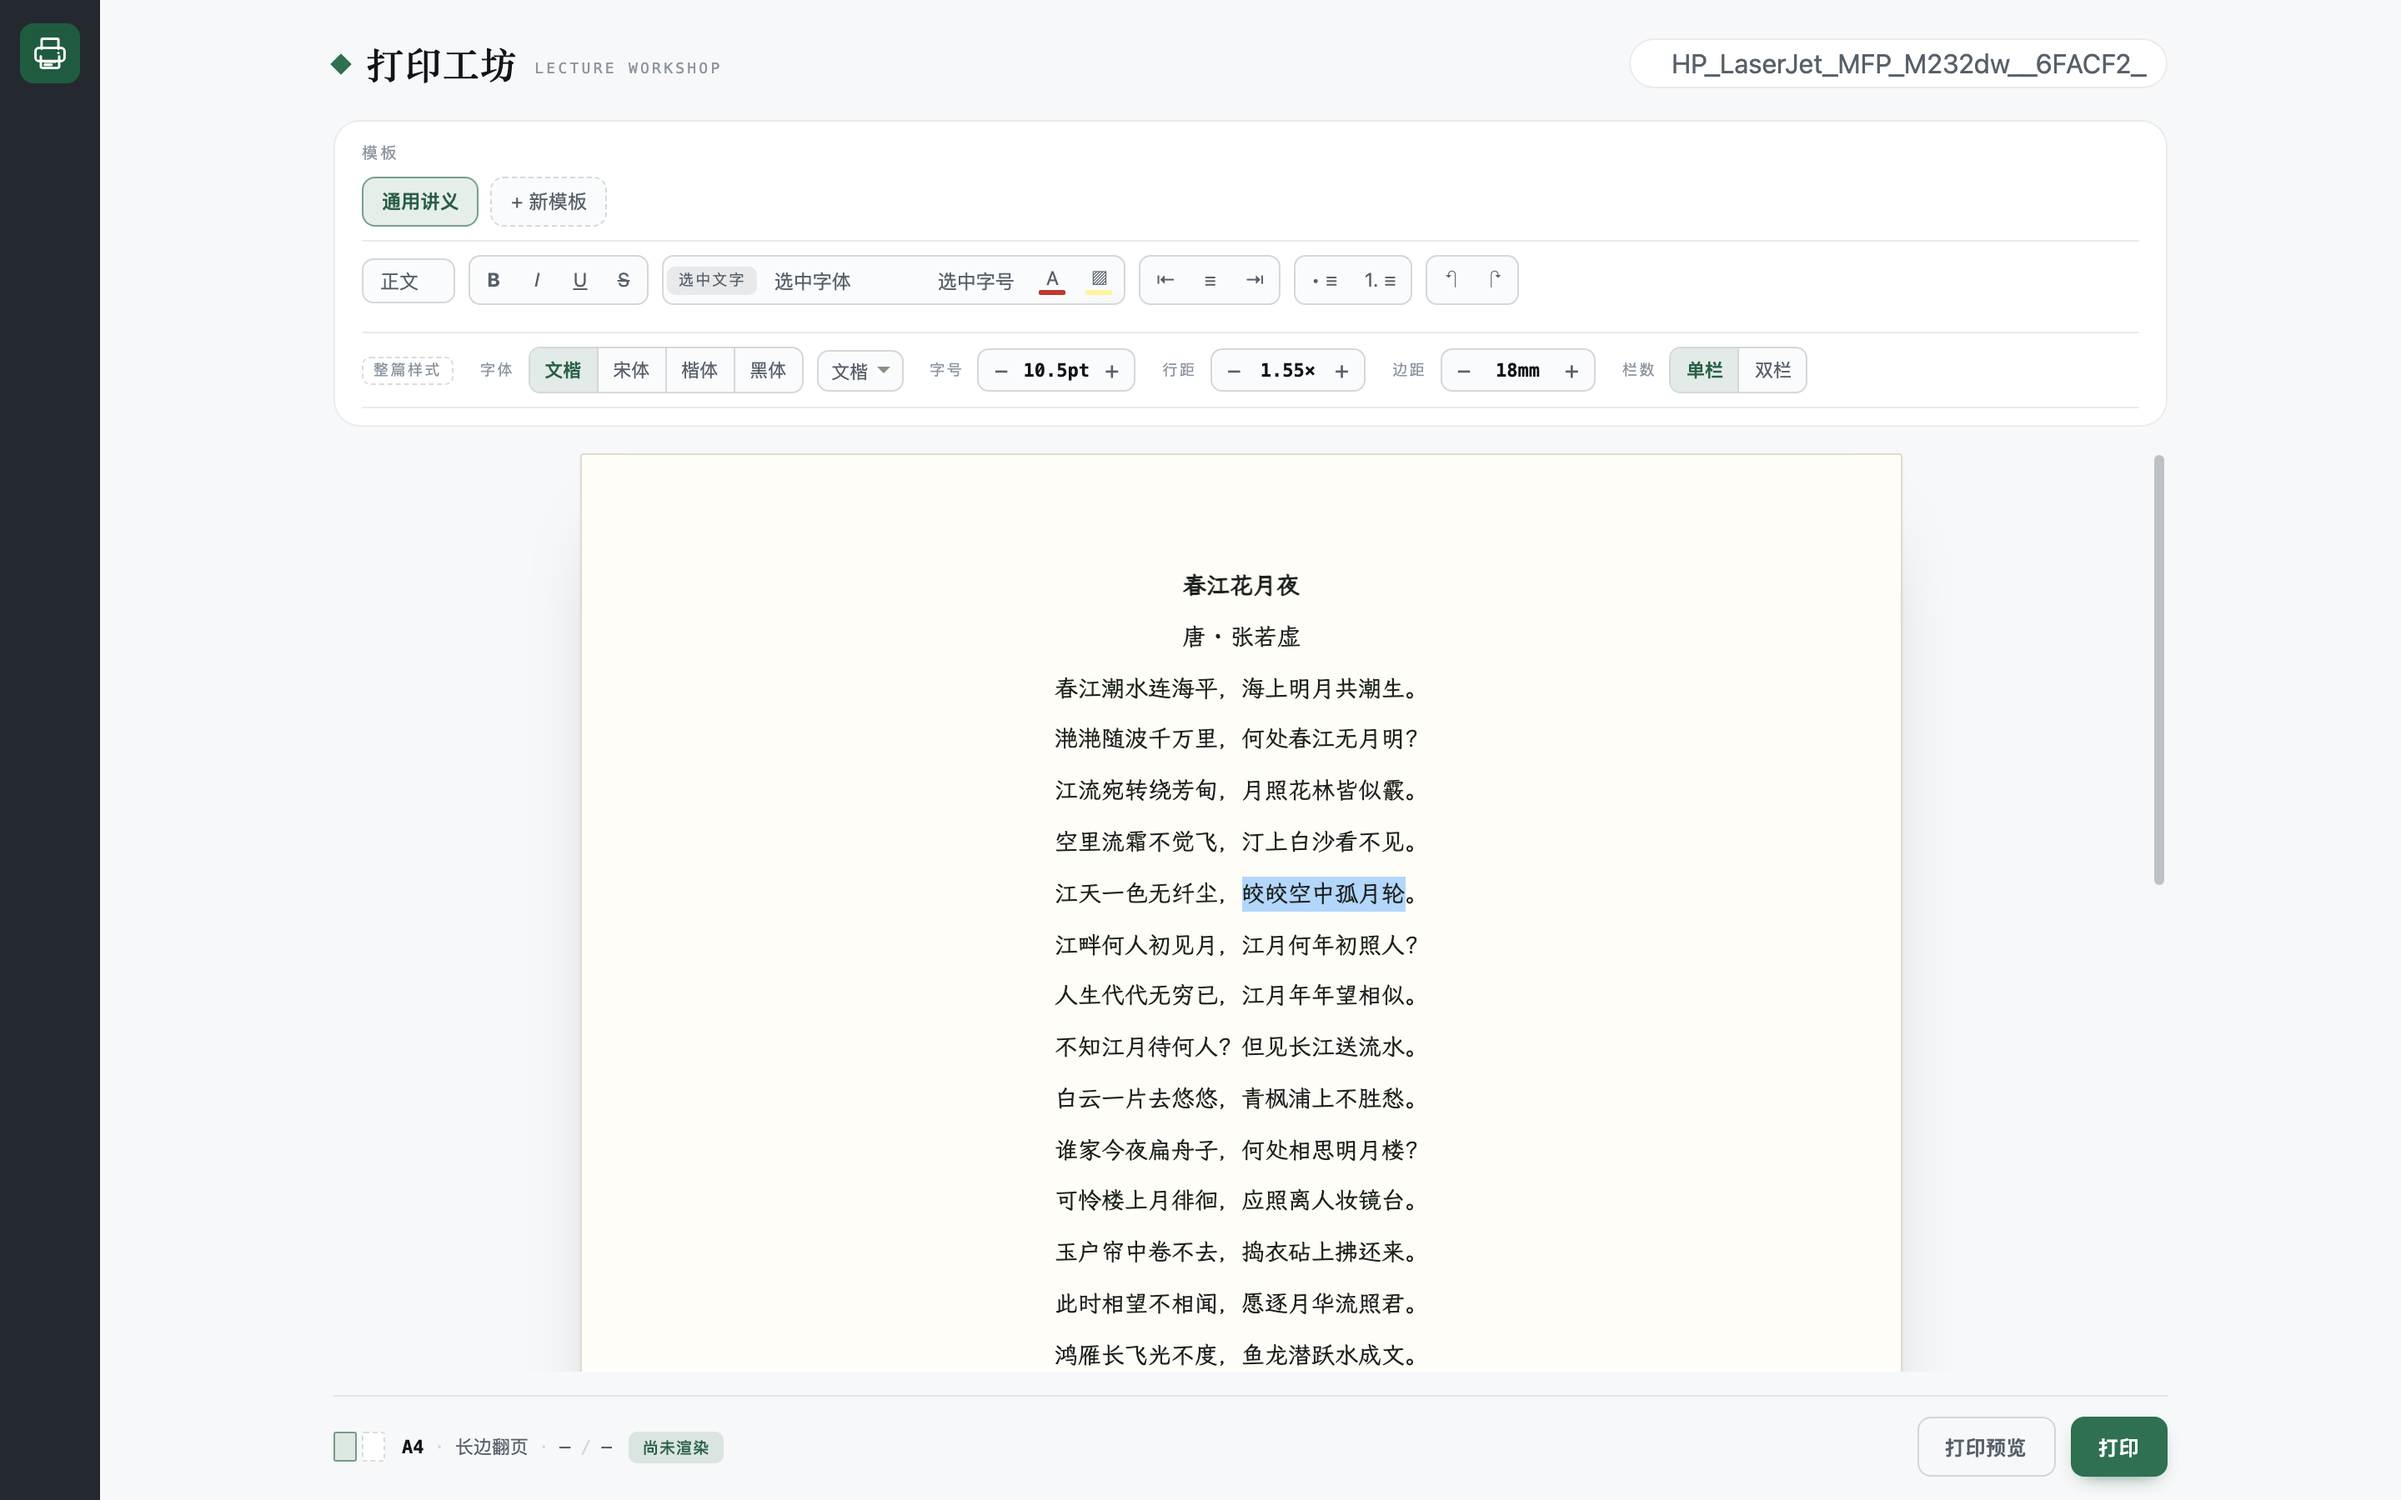
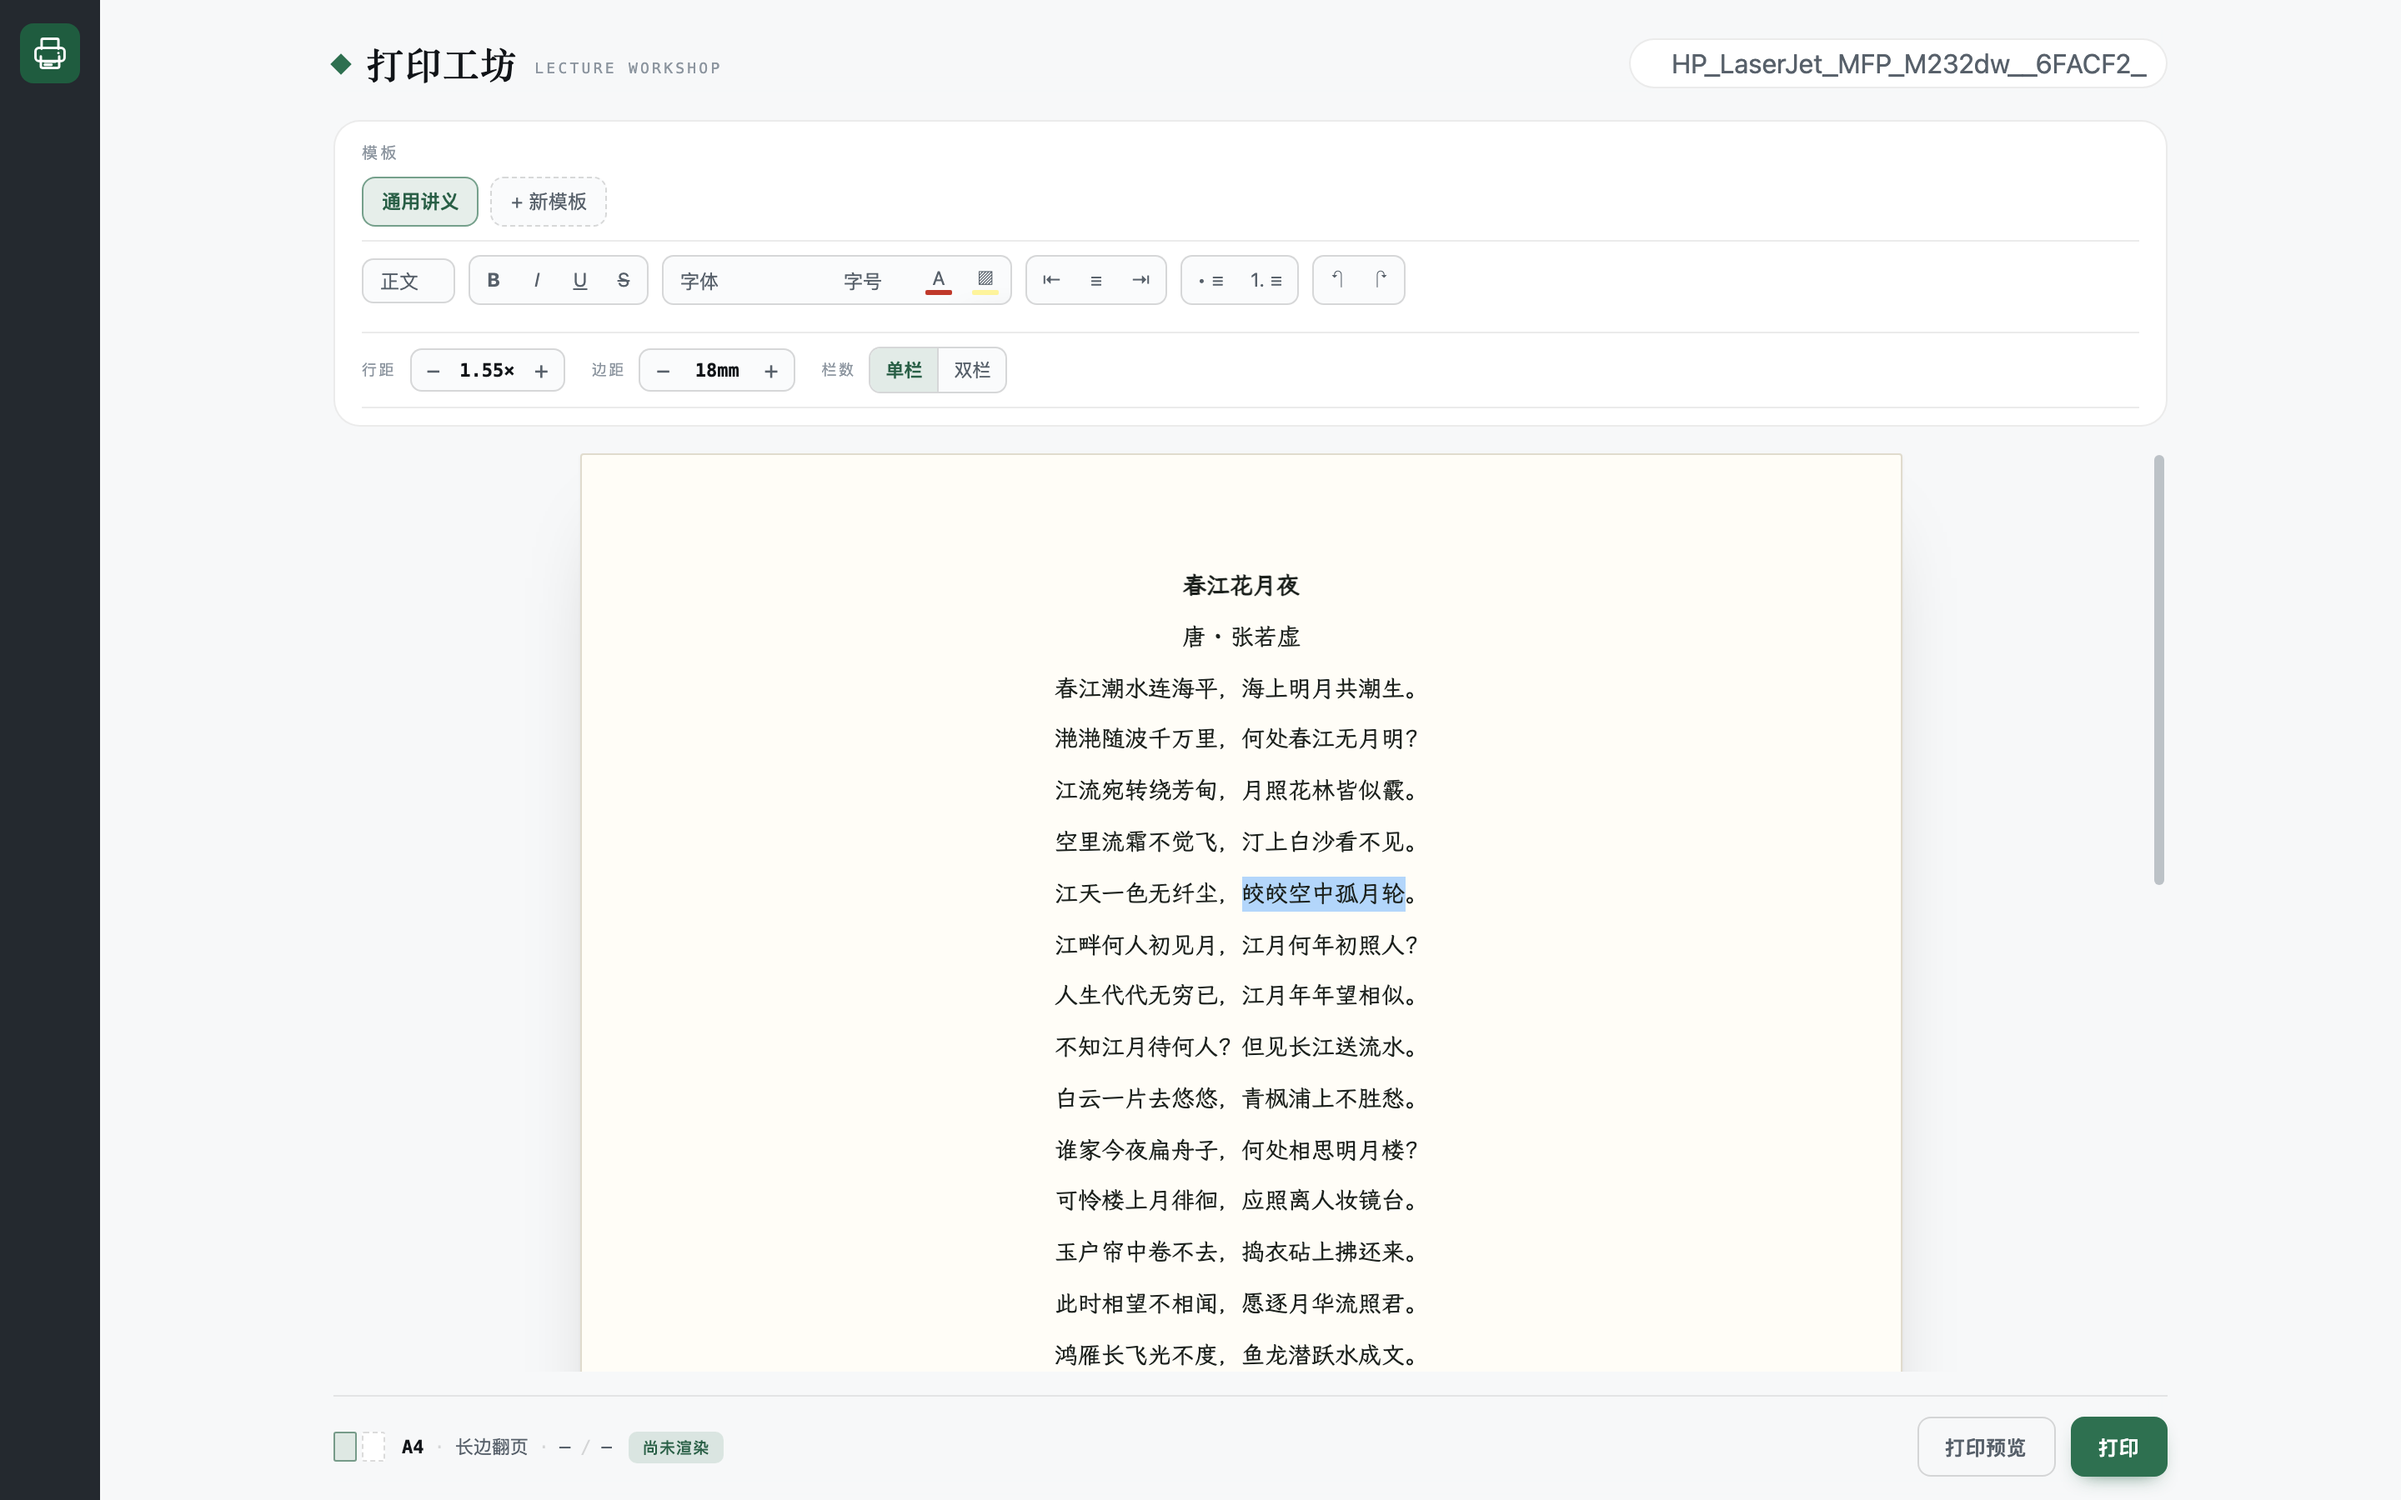
fix: merge into a single character-format control group
- remove the duplicate selected/whole-document font and size categories
- font and size now apply to the selection when present, otherwise set the document default
- keep color/highlight, line spacing, margins and columns in their existing single place
- refresh screenshots

diff --git a/lib/client.js b/lib/client.js
@@ -95,10 +95,6 @@ window.__ModuleLoader__.load({
         "sel.colorTitle": "选中文字的颜色",
         "sel.highlightTitle": "选中文字的高亮",
         "sel.clear": "清除",
-        "sel.tag": "选中文字",
-        "sel.groupTitle": "以下控件只改选中的文字，不改整篇",
-        "sel.fontPick": "选中字体",
-        "sel.sizePick": "选中字号",
         "btn.alignLeft": "左对齐",
         "btn.alignCenter": "居中",
         "btn.alignRight": "右对齐",
@@ -253,10 +249,6 @@ window.__ModuleLoader__.load({
         "sel.colorTitle": "Color of selected text",
         "sel.highlightTitle": "Highlight of selected text",
         "sel.clear": "Clear",
-        "sel.tag": "Selection",
-        "sel.groupTitle": "These controls format only the selected text",
-        "sel.fontPick": "Font",
-        "sel.sizePick": "Size",
         "btn.alignLeft": "Align Left",
         "btn.alignCenter": "Align Center",
         "btn.alignRight": "Align Right",
@@ -483,10 +475,6 @@ window.__ModuleLoader__.load({
         "sel.colorTitle": "選択文字の色",
         "sel.highlightTitle": "選択文字のハイライト",
         "sel.clear": "クリア",
-        "sel.tag": "選択文字",
-        "sel.groupTitle": "以下の操作は選択した文字だけに適用されます",
-        "sel.fontPick": "選択フォント",
-        "sel.sizePick": "選択サイズ",
         "btn.alignLeft": "左揃え",
         "btn.alignCenter": "中央揃え",
         "btn.alignRight": "右揃え",
@@ -1339,28 +1327,6 @@ window.__ModuleLoader__.load({
 }
 .ddoc-ruler-grp { display: flex; align-items: center; gap: 8px; padding: 0; }
 .ddoc-ruler-grp:first-child { padding-left: 0; }
-.ddoc-ruler-tag {
-  font: 9px/1 var(--dsw-font-family-code, ui-monospace, monospace);
-  letter-spacing: .14em; text-transform: uppercase;
-  color: var(--dsw-alias-label-tertiary);
-  padding: 3px 6px; border: 1px dashed var(--dsw-alias-border-l2);
-  border-radius: 5px; white-space: nowrap;
-}
-.ddoc-ruler-tag + .ddoc-ruler-grp { padding-left: 0; }
-.ddoc-ruler-tag.on {
-  border-style: solid;
-  border-color: color-mix(in srgb, var(--dsw-alias-label-primary) 45%, transparent);
-  color: var(--dsw-alias-label-primary);
-  background: color-mix(in srgb, var(--dsw-alias-label-primary) 8%, transparent);
-}
-.ddoc-sel-tag {
-  font: 9px/1 var(--dsw-font-family-code, ui-monospace, monospace);
-  letter-spacing: .12em; text-transform: uppercase;
-  color: var(--dsw-alias-label-secondary);
-  padding: 4px 7px; border-radius: 5px;
-  background: color-mix(in srgb, var(--dsw-alias-label-primary) 8%, transparent);
-  white-space: nowrap;
-}
 .ddoc-ruler-grp > label {
   font: 9px/1 var(--dsw-font-family-code, ui-monospace, monospace);
   letter-spacing: .14em; text-transform: uppercase;
@@ -3015,28 +2981,31 @@ window.__ModuleLoader__.load({
                       cmdButton("S", "strikeThrough", { textDecoration: "line-through" }, t("btn.strike"), fmtState.strike),
                     ),
 
-                    // 2.5 字符格式：字体 / 字号 / 颜色 / 高亮，只改选中文字
+                    // 2.5 字符格式：有选区时改选中文字，没有选区时改整篇默认
                     h(
                       "div",
                       { className: "ddoc-ribbon-grp" },
-                      h("span", { className: "ddoc-sel-tag", title: t("sel.groupTitle") }, t("sel.tag")),
                       h(
                         "select",
                         {
                           className: "ddoc-ribbon-select ddoc-sel-font",
                           value: "",
-                          disabled: !hasSelection,
                           title: t("sel.fontTitle"),
                           "aria-label": t("sel.fontTitle"),
                           onChange: (event) => {
                             const value = event.target.value;
                             event.target.value = "";
                             if (!value) return;
-                            const family = value.startsWith("sys:") ? value.slice(4) : paperFontStack(value);
-                            applySelectionStyle({ fontFamily: family });
+                            if (hasSelection) {
+                              const family = value.startsWith("sys:") ? value.slice(4) : paperFontStack(value);
+                              applySelectionStyle({ fontFamily: family });
+                            } else {
+                              const font = value.startsWith("sys:") ? value.slice(4) : value;
+                              setStyleDraft((prev) => (prev ? { ...prev, font } : prev));
+                            }
                           },
                         },
-                        h("option", { value: "" }, t("sel.fontPick")),
+                        h("option", { value: "" }, t("sel.font")),
                         SELECTION_FONT_KEYS.map((key) => h("option", { key, value: key }, t(`font.${key}`))),
                         systemFonts.length
                           ? h(
@@ -3051,17 +3020,17 @@ window.__ModuleLoader__.load({
                         {
                           className: "ddoc-ribbon-select ddoc-sel-size",
                           value: "",
-                          disabled: !hasSelection,
                           title: t("sel.sizeTitle"),
                           "aria-label": t("sel.sizeTitle"),
                           onChange: (event) => {
                             const value = event.target.value;
                             event.target.value = "";
                             if (!value) return;
-                            applySelectionStyle({ fontSize: `${value}pt` });
+                            if (hasSelection) applySelectionStyle({ fontSize: `${value}pt` });
+                            else setStyleDraft((prev) => (prev ? { ...prev, fontSize: Number(value) } : prev));
                           },
                         },
-                        h("option", { value: "" }, t("sel.sizePick")),
+                        h("option", { value: "" }, t("sel.size")),
                         SELECTION_FONT_SIZES.map((n) => h("option", { key: n, value: String(n) }, `${n}pt`)),
                       ),
                       h(SwatchControl, {
@@ -3114,71 +3083,6 @@ window.__ModuleLoader__.load({
                 ? h(
                     "div",
                     { className: "ddoc-ruler" },
-
-                    h("span", { className: "ddoc-ruler-tag", title: t("style.scopeTitle") }, t("style.scope")),
-
-                    // 字体（整篇默认）
-                    h(
-                      "div",
-                      { className: "ddoc-ruler-grp" },
-                      h("label", null, t("style.font")),
-                      h(
-                        "div",
-                        { className: "ddoc-seg2" },
-                        ...["wenkai", "song", "kaiti", "system"].map((font) =>
-                          h(
-                            "button",
-                            {
-                              key: font,
-                              type: "button",
-                              "aria-pressed": styleDraft.font === font ? "true" : "false",
-                              onClick: () => setStyleDraft({ ...styleDraft, font }),
-                            },
-                            t(`font.${font}`),
-                          ),
-                        ),
-                      ),
-                      h(FontPicker, {
-                        value: styleDraft.font,
-                        onChange: (font) => setStyleDraft({ ...styleDraft, font }),
-                        options: systemFonts,
-                        aliases: fontAliases,
-                      }),
-                    ),
-                    h("span", { className: "ddoc-ruler-sep" }),
-
-                    // 字号（整篇默认）
-                    h(
-                      "div",
-                      { className: "ddoc-ruler-grp" },
-                      h("label", null, t("style.size")),
-                      h(
-                        "div",
-                        { className: "ddoc-stepper" },
-                        h(
-                          "button",
-                          {
-                            type: "button",
-                            "aria-label": `${t("style.size")} −`,
-                            disabled: styleDraft.fontSize <= 8.5,
-                            onClick: () => bumpStyle("fontSize", -0.5, 8.5, 18, 0.5),
-                          },
-                          "−",
-                        ),
-                        h("b", null, `${styleDraft.fontSize}pt`),
-                        h(
-                          "button",
-                          {
-                            type: "button",
-                            "aria-label": `${t("style.size")} +`,
-                            disabled: styleDraft.fontSize >= 18,
-                            onClick: () => bumpStyle("fontSize", 0.5, 8.5, 18, 0.5),
-                          },
-                          "+",
-                        ),
-                      ),
-                    ),
-                    h("span", { className: "ddoc-ruler-sep" }),
 
                     // 行距
                     h(
